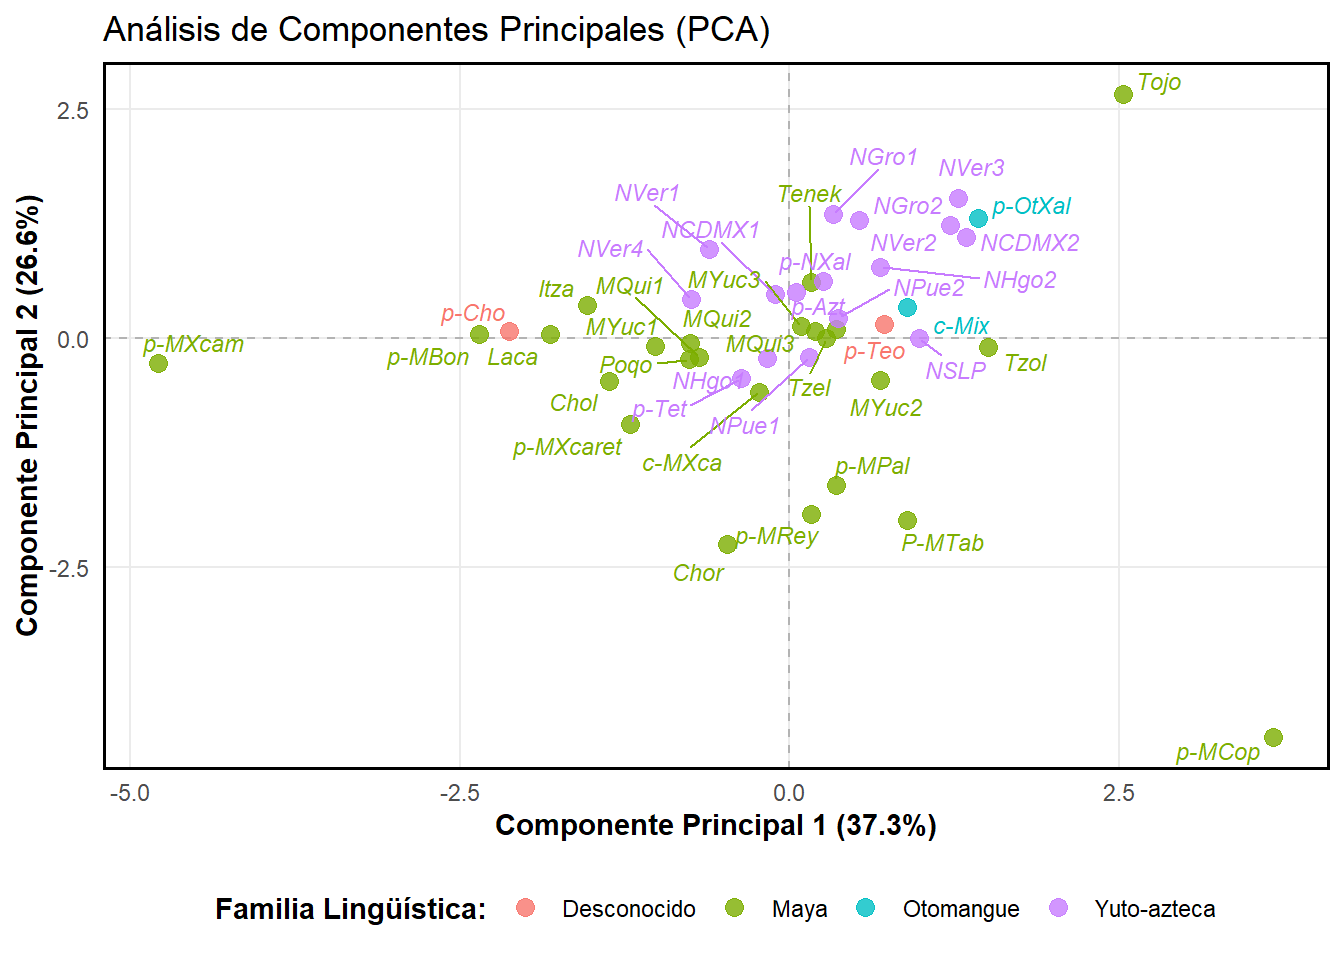
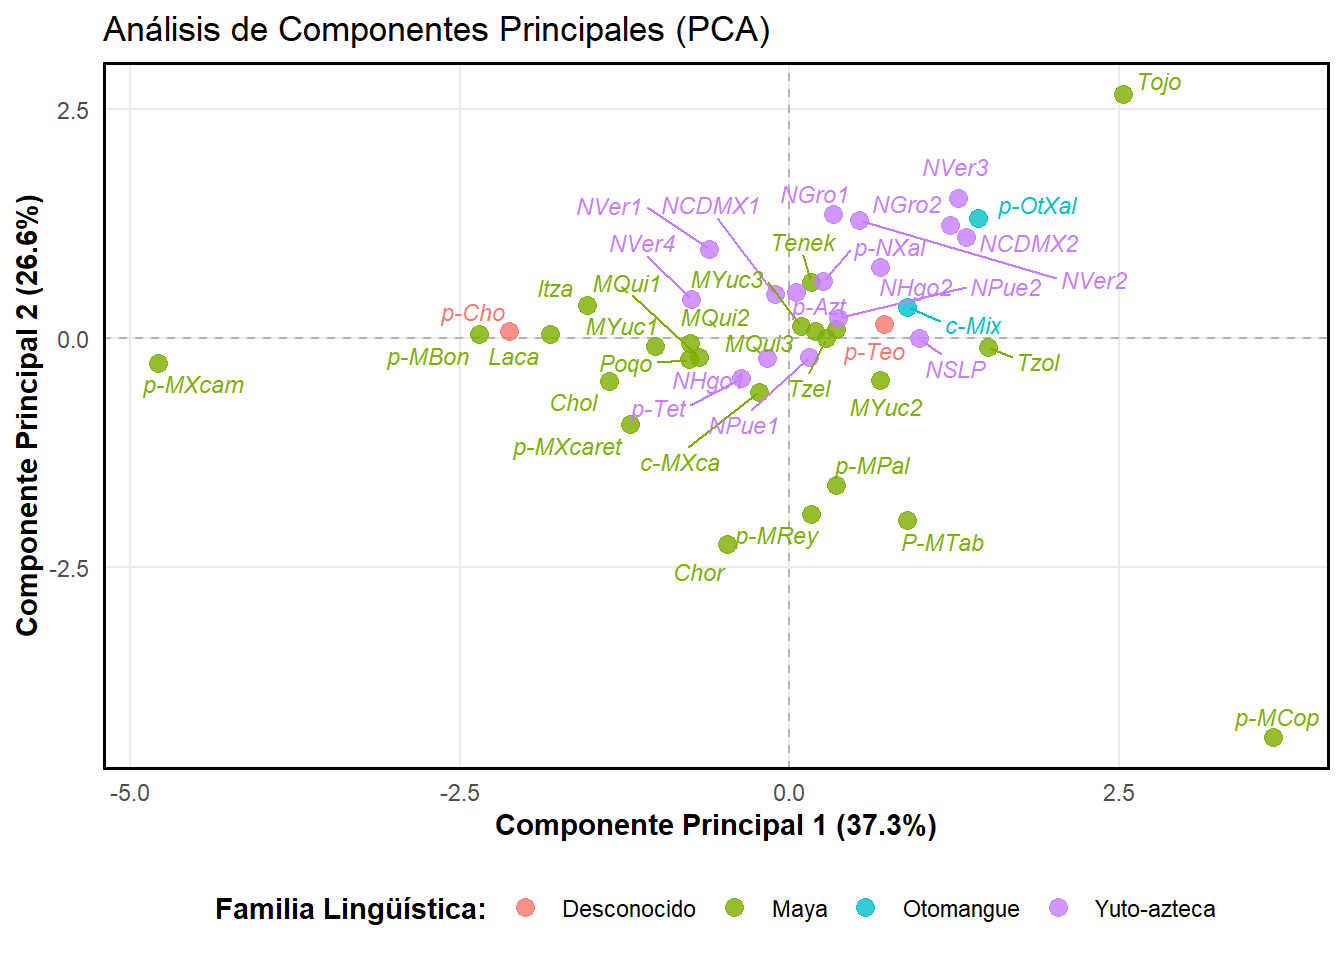
Built site for gh-pages

diff --git a/intro.html b/intro.html
@@ -315,7 +315,7 @@ pre > code.sourceCode > span > a:first-child::before { text-decoration: underlin
 <pre><code>[1] "ATCG" "GCTA" "TACG" "CGTA"</code></pre>
 </div>
 </div>
-<p>Esto nos devolverá un vector con las secuencias de ADN. También podemos acceder a las filas de un data frame usando índices. Por ejemplo, para acceder a la primera fila del data frame, escribimos: <code>gdvsecuencias_df[1, ]</code> Esto nos devolverá la primera fila del data frame, que contiene la información sobre la secuencia <code>seq1</code>. También podemos realizar operaciones con data frames. Por ejemplo, si queremos agregar una nueva columna que contenga el número de A’s en cada secuencia, escribimos: <code>gdvsecuencias_df$num_A &lt;- sapply(secuencias_df$secuencia, function(x) sum(str_count(x, "A")))</code> Esto nos agregará una nueva columna <code>num_A</code> al data frame que contiene el número de A’s en cada secuencia de ADN.</p>
+<p>Esto nos devolverá un vector con las secuencias de ADN. También podemos acceder a las filas de un data frame usando índices. Por ejemplo, para acceder a la primera fila del data frame, escribimos: <code>dlrsecuencias_df[1, ]</code> Esto nos devolverá la primera fila del data frame, que contiene la información sobre la secuencia <code>seq1</code>. También podemos realizar operaciones con data frames. Por ejemplo, si queremos agregar una nueva columna que contenga el número de A’s en cada secuencia, escribimos: <code>dlrsecuencias_df$num_A &lt;- sapply(secuencias_df$secuencia, function(x) sum(str_count(x, "A")))</code> Esto nos agregará una nueva columna <code>num_A</code> al data frame que contiene el número de A’s en cada secuencia de ADN.</p>
 <p><strong>Nota: los data frames son muy importantes en R, especialmente cuando trabajamos con datos de secuencias de ADN, ya que podemos organizar la información sobre las secuencias en un data frame para facilitar su análisis.</strong> Por ejemplo, podemos agregar más columnas al data frame para incluir información adicional sobre las secuencias, como la especie a la que pertenecen, la ubicación geográfica donde se encontraron, etc. Esto nos permitirá realizar análisis más complejos y obtener insights más profundos sobre nuestras secuencias de ADN.</p>
 </section>
 <section id="listas" class="level1" data-number="6">

diff --git a/Laboratorio_2.html b/Laboratorio_2.html
@@ -437,23 +437,23 @@ p-MXcam   0.2100 0.6064 0.7152 0.6092    0.3073  0.0000      +      -    -    -
           Itza Laca MCam MQui1 MQui2 MQui3 MYuc1 MYuc2 MYuc3 Poqo Tenek Tojo
 p-MBon       -    -    -     -     -     -     -     -     -    -     -    *
 p-MPal       +    *    -     -     -     -     +     -     -    +     +    *
-P-MTab       *    *    +     +     *     +     *     -     +    *     *    *
+P-MTab       *    *    +     *     +     +     *     -     +    *     *    *
 p-MRey       +    *    -     -     -     -     -     -     -    -     -    *
 p-MXcaret    -    +    -     -     -     -     -     -     -    -     +    *
 p-MXcam      -    -    -     -     -     -     -     -     -    -     -    -
           Tzel Tzol p-Cho p-Teo p-OtXal c-Mix p-Azt p-NXal p-Tet NCDMX1 NCDMX2
-p-MBon       -    -     -     -       +     -     -      -     -      -      -
+p-MBon       -    -     -     -       -     -     -      -     -      -      -
 p-MPal       -    -     -     -       -     -     -      -     -      +      +
-P-MTab       -    -     +     -       *     +     *      +     -      *      *
-p-MRey       -    -     -     -       -     -     -      -     -      -      -
+P-MTab       -    -     -     -       *     +     *      +     -      *      *
+p-MRey       -    -     -     -       +     -     -      -     -      -      -
 p-MXcaret    -    *     -     -       *     +     +      -     -      -      *
 p-MXcam      -    -     -     -       -     -     -      -     -      -      -
           NGro1 NGro2 NHgo1 NHgo2 NPue1 NPue2 NSLP NVer1 NVer2 NVer3 NVer4
 p-MBon        -     -     -     -     -     -    -     -     -     -     -
-p-MPal        *     -     +     +     -     -    -     *     *     *     +
+p-MPal        *     +     +     +     -     -    -     *     *     *     +
 P-MTab        *     *     *     *     +     +    +     *     *     *     *
 p-MRey        +     -     -     -     -     -    -     +     +     +     +
-p-MXcaret     *     *     -     *     -     -    +     -     *     *     +
+p-MXcaret     *     *     -     +     -     -    +     -     *     *     +
 p-MXcam       -     -     -     -     -     -    -     -     -     -     -</code></pre>
 </div>
 </div>
